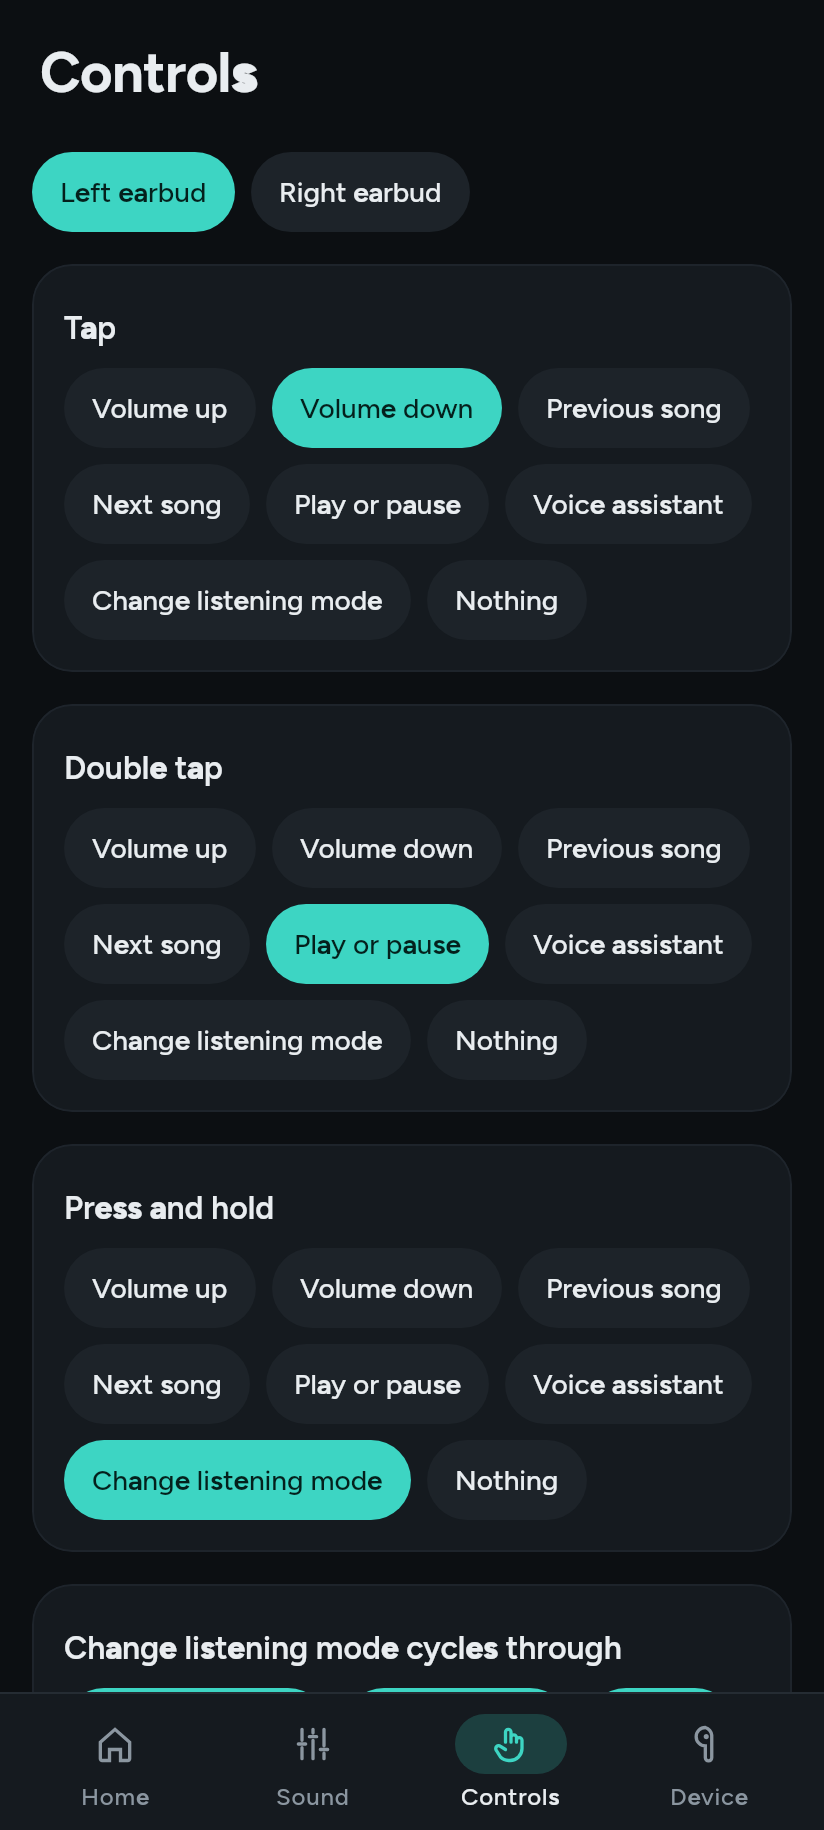
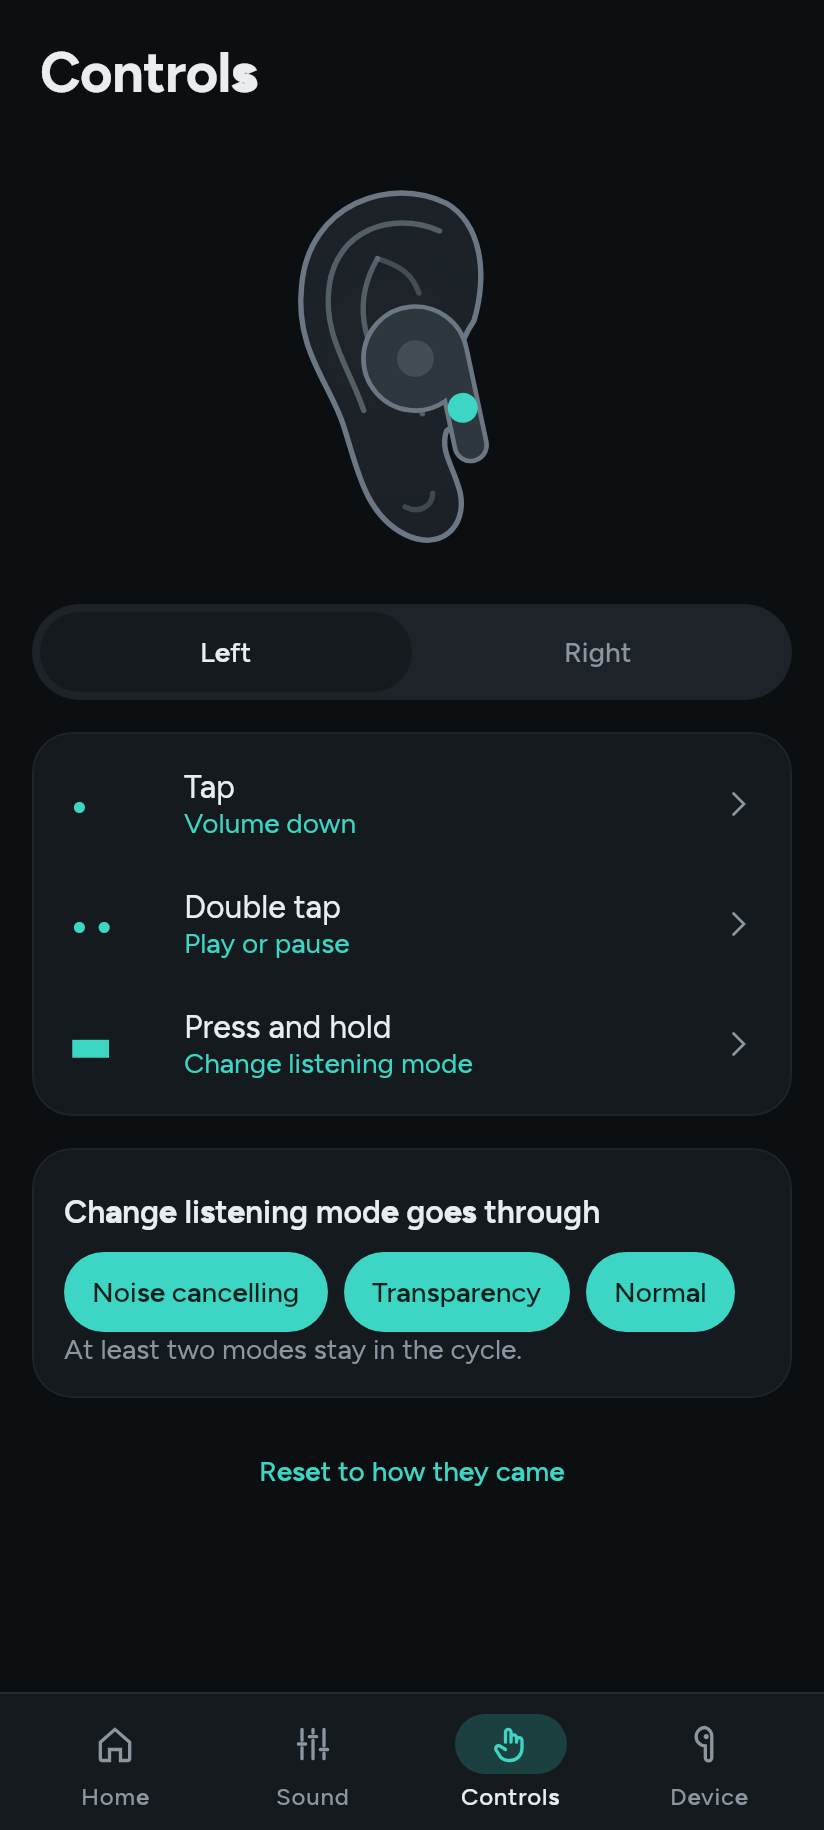
Controls: an ear with the earbud in it and the spot to touch, a left and right switch, one row per kind of touch, and the choices in a sheet

diff --git a/ui/src/commonMain/kotlin/com/blazify/buds/ui/screens/DeeperScreens.kt b/ui/src/commonMain/kotlin/com/blazify/buds/ui/screens/DeeperScreens.kt
@@ -1,6 +1,14 @@
 package com.blazify.buds.ui.screens
 
 import androidx.compose.foundation.horizontalScroll
+import androidx.compose.foundation.background
+import androidx.compose.foundation.layout.Box
+import androidx.compose.foundation.layout.fillMaxHeight
+import androidx.compose.foundation.layout.fillMaxSize
+import androidx.compose.foundation.layout.offset
+import androidx.compose.material3.Icon
+import androidx.compose.ui.draw.clip
+import com.blazify.buds.ui.blocks.press
 import androidx.compose.foundation.layout.Arrangement
 import androidx.compose.foundation.layout.Column
 import androidx.compose.foundation.layout.FlowRow
@@ -25,6 +33,7 @@ import androidx.compose.ui.Alignment
 import androidx.compose.ui.Modifier
 import androidx.compose.ui.text.style.TextOverflow
 import androidx.compose.ui.unit.dp
+import androidx.compose.ui.unit.sp
 import com.blazify.buds.core.model.BudsState
 import com.blazify.buds.core.model.Change
 import com.blazify.buds.core.model.Ear
@@ -115,6 +124,19 @@ fun Press.label() = when (this) {
     Press.Triple -> "Triple tap"
 }
 
+/** The mark for each kind of touch: one dot, two, three, or a bar for holding. */
+private fun Press.glyph(): String = when (this) {
+    Press.Single -> "•"
+    Press.Double -> "••"
+    Press.Triple -> "•••"
+    Press.Long -> "▬"
+}
+
+/**
+ * Touch controls, the way people think about them: an ear with the earbud in it and the spot to touch, a switch
+ * between left and right, and one row for each kind of touch showing what it does. A row opens the choices.
+ */
+@OptIn(androidx.compose.material3.ExperimentalMaterial3Api::class)
 @Composable
 fun ControlsScreen(state: BudsState, change: (Change) -> Unit, back: (() -> Unit)? = null) = PlaceFrame("Controls", back) {
     val controls = state.controls
@@ -124,25 +146,30 @@ fun ControlsScreen(state: BudsState, change: (Change) -> Unit, back: (() -> Unit
     }
     val palette = LocalPalette.current
     var ear by remember { mutableStateOf(Ear.Left) }
-    Row(horizontalArrangement = Arrangement.spacedBy(8.dp)) {
-        Choice("Left earbud", ear == Ear.Left) { ear = Ear.Left }
-        Choice("Right earbud", ear == Ear.Right) { ear = Ear.Right }
-    }
-    Press.entries.forEach { press ->
-        val now = controls.actions[ear to press] ?: return@forEach
-        Panel {
-            SectionTitle(press.label())
-            Spacer(Modifier.height(4.dp))
-            FlowRow(horizontalArrangement = Arrangement.spacedBy(8.dp), verticalArrangement = Arrangement.spacedBy(8.dp)) {
-                controls.available.forEach { action ->
-                    Choice(action.label(), action == now) { change(Change.Touch(ear, press, action)) }
+    var picking by remember { mutableStateOf<Press?>(null) }
+    com.blazify.buds.ui.blocks.EarArt(ear, height = 210.dp)
+    SideSwitch(ear) { ear = it }
+    Panel(padding = 6.dp) {
+        Press.entries.forEach { press ->
+            val now = controls.actions[ear to press] ?: return@forEach
+            Row(
+                Modifier.fillMaxWidth().clip(androidx.compose.foundation.shape.RoundedCornerShape(14.dp)).press { picking = press }
+                    .padding(horizontal = 12.dp, vertical = 12.dp),
+                verticalAlignment = Alignment.CenterVertically,
+                horizontalArrangement = Arrangement.spacedBy(14.dp),
+            ) {
+                Text(press.glyph(), style = MaterialTheme.typography.titleLarge.copy(fontSize = 24.sp, letterSpacing = 1.sp), color = palette.accent, modifier = Modifier.width(44.dp))
+                Column(Modifier.weight(1f)) {
+                    Text(press.label(), style = MaterialTheme.typography.bodyLarge, color = palette.text)
+                    Text(now.label(), style = MaterialTheme.typography.bodyMedium, color = if (now == TouchAction.None) palette.muted else palette.accent)
                 }
+                Icon(BudsIcons.Forward, null, tint = palette.muted, modifier = Modifier.size(18.dp))
             }
         }
     }
     state.sound?.let { sound ->
         Panel {
-            SectionTitle("Change listening mode cycles through")
+            SectionTitle("Change listening mode goes through")
             Spacer(Modifier.height(4.dp))
             Row(Modifier.horizontalScroll(rememberScrollState()), horizontalArrangement = Arrangement.spacedBy(8.dp)) {
                 ListeningMode.entries.forEach { mode ->
@@ -156,10 +183,60 @@ fun ControlsScreen(state: BudsState, change: (Change) -> Unit, back: (() -> Unit
             Hint("At least two modes stay in the cycle.")
         }
     }
-    Panel(padding = 8.dp) {
-        Row(Modifier.fillMaxWidth().padding(8.dp), verticalAlignment = Alignment.CenterVertically) {
-            Text("Put every control back as it came", style = MaterialTheme.typography.bodyMedium, color = palette.muted, modifier = Modifier.weight(1f))
-            Choice("Reset", false) { change(Change.ResetControls) }
+    Box(Modifier.fillMaxWidth(), contentAlignment = Alignment.Center) {
+        Text(
+            "Reset to how they came",
+            style = MaterialTheme.typography.labelLarge,
+            color = palette.accent,
+            modifier = Modifier.clip(androidx.compose.foundation.shape.RoundedCornerShape(12.dp)).press { change(Change.ResetControls) }.padding(12.dp),
+        )
+    }
+    val press = picking
+    if (press != null) {
+        androidx.compose.material3.ModalBottomSheet(
+            onDismissRequest = { picking = null },
+            containerColor = palette.card,
+            contentColor = palette.text,
+        ) {
+            Column(Modifier.padding(horizontal = 16.dp).padding(bottom = 24.dp)) {
+                Text("${if (ear == Ear.Left) "Left" else "Right"} earbud · ${press.label()}", style = MaterialTheme.typography.titleMedium, color = palette.text, modifier = Modifier.padding(bottom = 8.dp))
+                controls.available.forEach { action ->
+                    val chosen = controls.actions[ear to press] == action
+                    Row(
+                        Modifier.fillMaxWidth().clip(androidx.compose.foundation.shape.RoundedCornerShape(12.dp)).press {
+                            change(Change.Touch(ear, press, action))
+                            picking = null
+                        }.padding(horizontal = 8.dp, vertical = 12.dp),
+                        verticalAlignment = Alignment.CenterVertically,
+                    ) {
+                        Text(action.label(), style = MaterialTheme.typography.bodyLarge, color = palette.text, modifier = Modifier.weight(1f))
+                        if (chosen) Icon(BudsIcons.Check, "Chosen", tint = palette.accent, modifier = Modifier.size(20.dp))
+                    }
+                }
+            }
+        }
+    }
+}
+
+/** Left or right, as one pill that slides between them. */
+@Composable
+private fun SideSwitch(ear: Ear, onPick: (Ear) -> Unit) {
+    val palette = LocalPalette.current
+    val x by androidx.compose.animation.core.animateFloatAsState(if (ear == Ear.Left) 0f else 1f, androidx.compose.animation.core.spring(dampingRatio = 0.75f, stiffness = 420f), label = "side")
+    androidx.compose.foundation.layout.BoxWithConstraints(
+        Modifier.fillMaxWidth().height(48.dp).clip(androidx.compose.foundation.shape.RoundedCornerShape(24.dp)).background(palette.raised).padding(4.dp),
+    ) {
+        val half = maxWidth / 2
+        Box(Modifier.offset(x = half * x).width(half).fillMaxHeight().clip(androidx.compose.foundation.shape.RoundedCornerShape(20.dp)).background(palette.card))
+        Row(Modifier.fillMaxSize()) {
+            listOf(Ear.Left to "Left", Ear.Right to "Right").forEach { (side, name) ->
+                Box(
+                    Modifier.weight(1f).fillMaxHeight().clip(androidx.compose.foundation.shape.RoundedCornerShape(20.dp)).press(role = androidx.compose.ui.semantics.Role.Tab) { onPick(side) },
+                    contentAlignment = Alignment.Center,
+                ) {
+                    Text(name, style = MaterialTheme.typography.labelLarge, color = if (side == ear) palette.text else palette.muted)
+                }
+            }
         }
     }
 }

diff --git a/ui/src/commonMain/kotlin/com/blazify/buds/ui/blocks/EarArt.kt b/ui/src/commonMain/kotlin/com/blazify/buds/ui/blocks/EarArt.kt
@@ -1,0 +1,109 @@
+package com.blazify.buds.ui.blocks
+
+import androidx.compose.animation.core.FastOutSlowInEasing
+import androidx.compose.animation.core.RepeatMode
+import androidx.compose.animation.core.animateFloat
+import androidx.compose.animation.core.animateFloatAsState
+import androidx.compose.animation.core.infiniteRepeatable
+import androidx.compose.animation.core.rememberInfiniteTransition
+import androidx.compose.animation.core.tween
+import androidx.compose.foundation.Canvas
+import androidx.compose.foundation.layout.fillMaxWidth
+import androidx.compose.foundation.layout.height
+import androidx.compose.runtime.Composable
+import androidx.compose.runtime.getValue
+import androidx.compose.ui.Modifier
+import androidx.compose.ui.geometry.Offset
+import androidx.compose.ui.geometry.Size
+import androidx.compose.ui.graphics.Brush
+import androidx.compose.ui.graphics.Color
+import androidx.compose.ui.graphics.Matrix
+import androidx.compose.ui.graphics.Path
+import androidx.compose.ui.graphics.PathFillType
+import androidx.compose.ui.graphics.StrokeCap
+import androidx.compose.ui.graphics.StrokeJoin
+import androidx.compose.ui.graphics.drawscope.DrawScope
+import androidx.compose.ui.graphics.drawscope.Stroke
+import androidx.compose.ui.graphics.drawscope.rotate
+import androidx.compose.ui.graphics.drawscope.scale
+import androidx.compose.ui.graphics.drawscope.translate
+import androidx.compose.ui.graphics.vector.PathParser
+import androidx.compose.ui.semantics.contentDescription
+import androidx.compose.ui.semantics.semantics
+import androidx.compose.ui.unit.Dp
+import androidx.compose.ui.unit.dp
+import com.blazify.buds.core.model.Ear
+import com.blazify.buds.ui.theme.LocalPalette
+
+/**
+ * An ear seen from the side, drawn as clean lines, with our earbud sitting in it and a pulsing spot on the stem where a
+ * touch goes. The left ear is the right one mirrored; switching sides flips it over.
+ */
+@Composable
+fun EarArt(ear: Ear, modifier: Modifier = Modifier, height: Dp = 220.dp) {
+    val palette = LocalPalette.current
+    val reduce = LocalReduceMotion.current
+    val pulse = rememberInfiniteTransition(label = "touch")
+    val beat by pulse.animateFloat(0f, 1f, infiniteRepeatable(tween(1500, easing = FastOutSlowInEasing), RepeatMode.Restart), label = "beat")
+    val facing by animateFloatAsState(if (ear == Ear.Right) 1f else -1f, tween(420, easing = FastOutSlowInEasing), label = "flip")
+    val skin = if (palette.dark) Color(0xFF1D2329) else Color(0xFFFFFFFF)
+    val line = if (palette.dark) Color(0xFF6B7782) else Color(0xFF9AA5AE)
+    val bud = if (palette.dark) Color(0xFF2E363E) else Color(0xFFF2F4F6)
+    Canvas(modifier.fillMaxWidth().height(height).semantics { contentDescription = "Touch the stem of the ${if (ear == Ear.Left) "left" else "right"} earbud" }) {
+        val box = size.height * 0.92f
+        val left = size.width / 2 - box / 2
+        val top = (size.height - box) / 2
+        // Flip about the middle: a squeeze through zero reads as the drawing turning over.
+        scale(facing, 1f, pivot = Offset(size.width / 2, size.height / 2)) {
+            translate(left, top) {
+                drawEar(box, skin, line)
+                drawEarbudIn(box, bud, line, palette.accent, if (reduce) 0.5f else beat)
+            }
+        }
+    }
+}
+
+private val EAR_OUTLINE = "M46 10 C62 2 86 10 88 34 C90 52 80 62 76 74 C72 86 70 100 58 106 C48 111 40 104 42 94 C44 86 48 82 46 76 C40 72 36 66 40 60 C44 56 42 50 38 44 C34 30 36 16 46 10 Z"
+private val EAR_RIM = "M48 18 C62 12 78 18 80 34 C82 48 74 58 70 70"
+private val EAR_FOLD = "M66 26 C73 38 71 52 61 60 C57 63 55 66 53 71"
+private val EAR_FOLD_UPPER = "M66 26 C60 28 56 30 54 36"
+private val EAR_LOBE = "M58 98 C54 100 50 98 50 94"
+
+private fun path(svg: String, side: Float): Path = PathParser().parsePathString(svg).toPath().apply {
+    transform(Matrix().apply { scale(side / 112f, side / 112f) })
+}
+
+private fun DrawScope.drawEar(side: Float, skin: Color, line: Color) {
+    val outline = path(EAR_OUTLINE, side)
+    drawPath(outline, Brush.radialGradient(listOf(skin, skin.copy(alpha = 0.85f)), Offset(side * 0.55f, side * 0.45f), side * 0.6f))
+    val stroke = Stroke(side * 0.014f, cap = StrokeCap.Round, join = StrokeJoin.Round)
+    drawPath(outline, line, style = stroke)
+    drawPath(path(EAR_RIM, side), line.copy(alpha = 0.7f), style = stroke)
+    drawPath(path(EAR_FOLD, side), line.copy(alpha = 0.7f), style = stroke)
+    drawPath(path(EAR_FOLD_UPPER, side), line.copy(alpha = 0.5f), style = stroke)
+    drawPath(path(EAR_LOBE, side), line.copy(alpha = 0.45f), style = stroke)
+    // The bowl the earbud sits in, softly shaded.
+    val k = side / 112f
+    drawOval(Brush.radialGradient(listOf(line.copy(alpha = 0.22f), Color.Transparent), Offset(54f * k, 58f * k), 13f * k), Offset(41f * k, 45f * k), Size(26f * k, 26f * k))
+}
+
+/** Our earbud, its head in the bowl of the ear and its stem hanging forward, with the touch spot pulsing on the stem. */
+private fun DrawScope.drawEarbudIn(side: Float, fill: Color, line: Color, accent: Color, beat: Float) {
+    val k = side / 112f
+    val budSide = 58f * k
+    // The logo earbud has its head at (0.435, 0.39) of its box; put that in the ear's bowl.
+    val headAt = Offset(55f * k, 55f * k)
+    translate(headAt.x - budSide * 0.435f, headAt.y - budSide * 0.39f) {
+        rotate(12f, pivot = Offset(budSide * 0.435f, budSide * 0.39f)) {
+            val shape = LogoShape.path(LogoShape.OUTLINE, Size(budSide, budSide))
+            drawPath(shape, fill)
+            drawPath(shape, line, style = Stroke(side * 0.012f))
+            val opening = LogoShape.path(LogoShape.OPENING, Size(budSide, budSide)).apply { fillType = PathFillType.NonZero }
+            drawPath(opening, line.copy(alpha = 0.35f))
+            // Where a touch goes: on the stem, just below the head.
+            val spot = Offset(budSide * 0.255f, budSide * 0.68f)
+            drawCircle(accent.copy(alpha = 0.35f * (1f - beat)), budSide * (0.08f + 0.12f * beat), spot)
+            drawCircle(accent, budSide * 0.075f, spot)
+        }
+    }
+}
